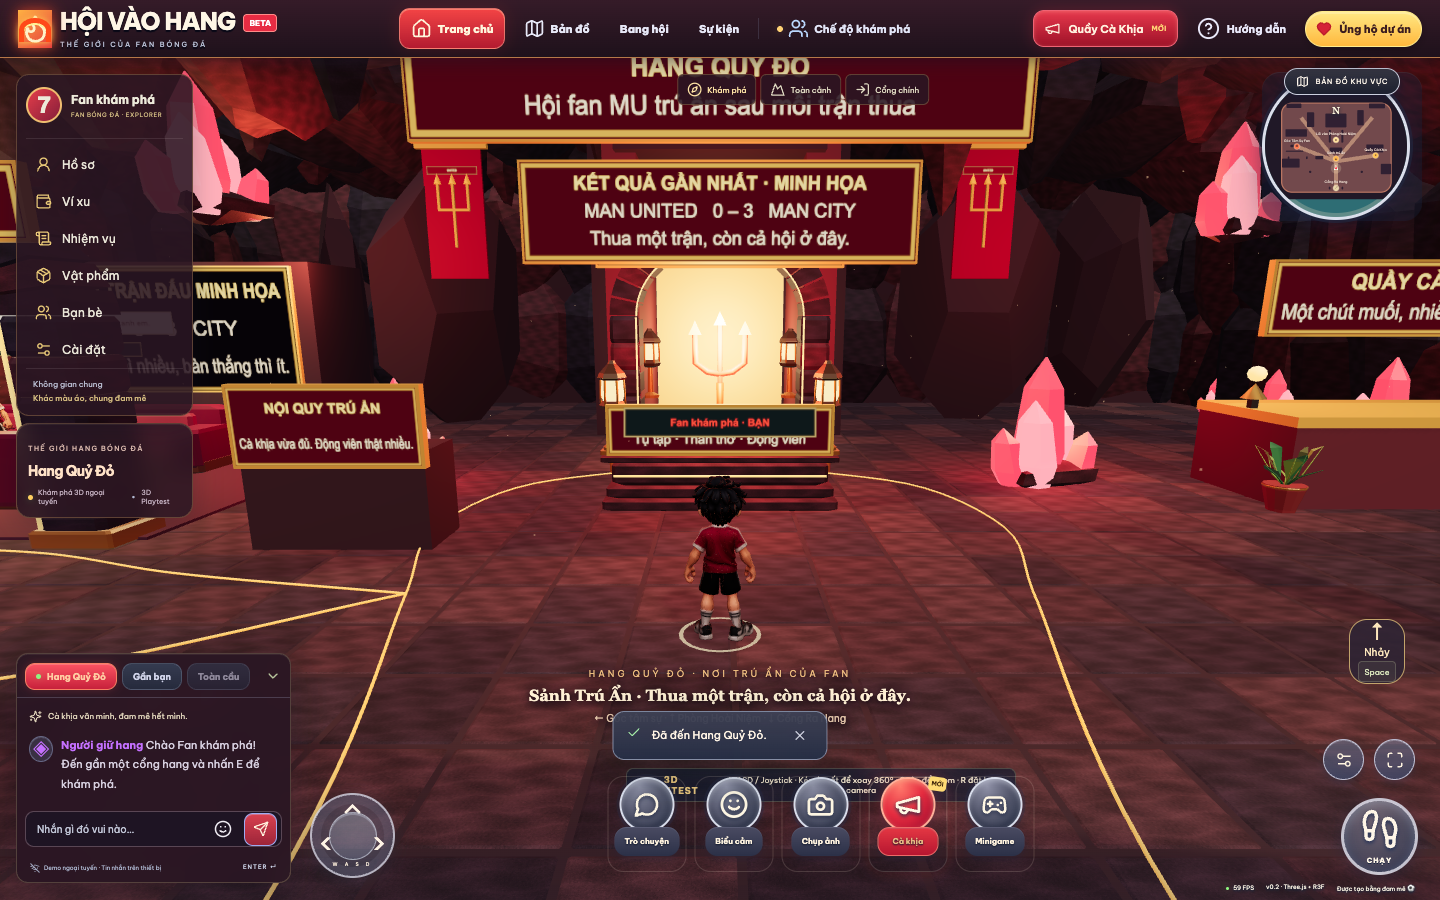
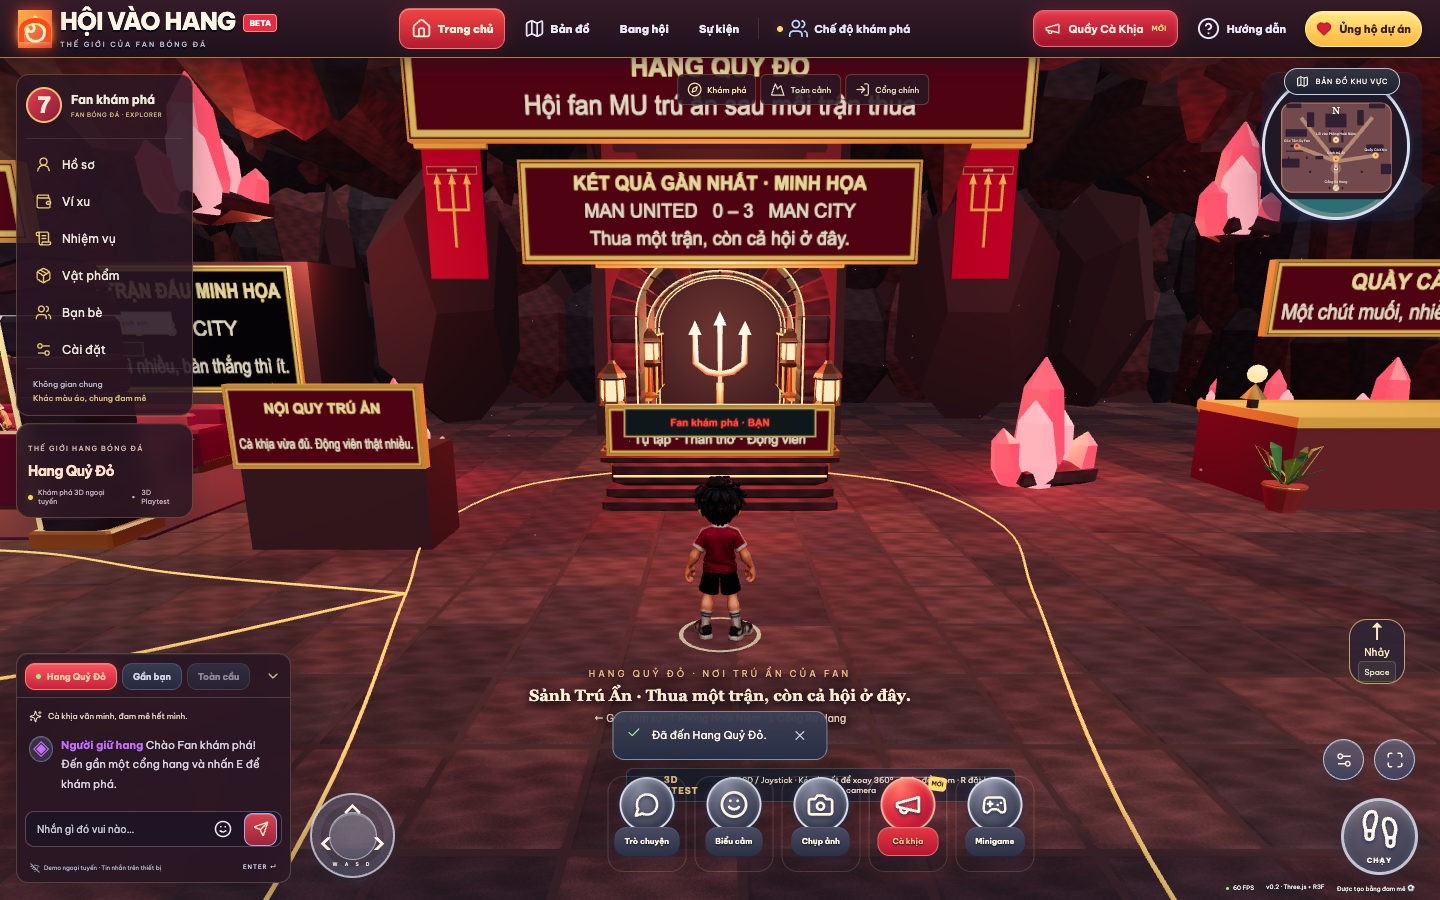
chore: polish Red Devils cave plaques, corridor lighting, and QA screenshots

Changed region(s): [[0.4375, 0.28, 0.5625, 0.4667]]

diff --git a/apps/web/src/game/three/RedDevilsCave.tsx b/apps/web/src/game/three/RedDevilsCave.tsx
@@ -51,7 +51,14 @@ function Sofa({
   depth?: number;
   rotation?: number;
 }) {
-  return <CaveModel asset="sofa" placements={[{ position, yaw: rotation, scale: [width / 4, 1, depth / 1.48] }]} solid shadow />;
+  return (
+    <CaveModel
+      asset="sofa"
+      placements={[{ position, yaw: rotation, scale: [width / 4, 1, depth / 1.48] }]}
+      solid
+      shadow
+    />
+  );
 }
 function SadFan({ position, i }: { position: V3; i: number }) {
   const head = useRef<THREE.Group>(null);
@@ -94,7 +101,12 @@ export function RedDevilsCave({ quality }: { quality: Quality }) {
       />
       <Banner position={[-8.2, 6.7, -16]} />
       <Banner position={[8.2, 6.7, -16]} />
-      <CaveModel asset="plinth" placements={[{ position: [solids[0].x, 0, solids[0].z] }]} solid shadow />
+      <CaveModel
+        asset="plinth"
+        placements={[{ position: [solids[0].x, 0, solids[0].z] }]}
+        solid
+        shadow
+      />
       <Plaque
         lines={['SẢNH TRÚ ẨN', 'Tụ tập · Than thở · Động viên']}
         width={4.1}
@@ -129,11 +141,29 @@ export function RedDevilsCave({ quality }: { quality: Quality }) {
         subtitle="Đi sâu vào hành lang · E để bước vào"
         width={3.75}
       />
-      <mesh position={[mx, 2.7, mz - 0.5]}>
-        <planeGeometry args={[3.7, 5.4]} />
-        <meshStandardMaterial color="#edb568" emissive="#ff9a35" emissiveIntensity={0.45} />
-      </mesh>
-      <pointLight position={[0, 3, -12]} color="#ffd798" intensity={45} distance={8} />
+      <CaveModel
+        asset="arch"
+        placements={[-11.15, -13.45, mz - 1.35].map((z) => ({
+          position: [mx, 0, z],
+          scale: [0.9, 0.91, 0.38],
+        }))}
+      />
+      {[-10.9, -12.9, -14.5].map((z, i) => (
+        <group key={z}>
+          <group position={[-1.8, 2.38, z]} rotation={[0, Math.PI / 2, 0]}>
+            <Plaque
+              lines={[['MUNICH · 1958', 'WEMBLEY · 1968', 'MOSCOW · 2008'][i]]}
+              width={1.25}
+              height={1.48}
+            />
+          </group>
+          <group position={[1.8, 2.38, z]} rotation={[0, -Math.PI / 2, 0]}>
+            <Plaque lines={[['ĐỨNG DẬY', 'VÔ ĐỊCH', 'HOÀI NIỆM'][i]]} width={1.25} height={1.48} />
+          </group>
+        </group>
+      ))}
+      <pointLight position={[0, 3, -12]} color="#ffd798" intensity={36} distance={8} />
+      <pointLight position={[0, 3, -15]} color="#ff854a" intensity={32} distance={7} />
       {/* Lounge: screen, real sofa volumes, a solid coffee table and seated fans. */}
       <group name="fan-lounge">
         <CaveGate
@@ -163,7 +193,12 @@ export function RedDevilsCave({ quality }: { quality: Quality }) {
         <Sofa position={[-15.1, 0, -6.15]} width={6.2} rotation={Math.PI} />
         <CaveModel
           asset="coffee-table"
-          placements={[{ position: [solids[11].x, 0, solids[11].z], scale: [solids[11].w / 1.25, 1, solids[11].d / 1.25] }]}
+          placements={[
+            {
+              position: [solids[11].x, 0, solids[11].z],
+              scale: [solids[11].w / 1.25, 1, solids[11].d / 1.25],
+            },
+          ]}
           solid
           shadow
         />
@@ -178,7 +213,12 @@ export function RedDevilsCave({ quality }: { quality: Quality }) {
         <pointLight position={[-15, 4, -8]} color="#ffc486" intensity={95} distance={14} />
       </group>
       <Sofa position={[solids[5].x, 0, solids[5].z]} width={solids[5].w} depth={solids[5].d} />
-      <Plaque lines={['KHU TRÒ CHUYỆN FAN', 'Lounge · Giao lưu nhẹ']} position={[-16.3, 3.3, -2.3]} width={6.25} height={0.9} />
+      <Plaque
+        lines={['KHU TRÒ CHUYỆN FAN', 'Lounge · Giao lưu nhẹ']}
+        position={[-16.3, 3.3, -2.3]}
+        width={6.25}
+        height={0.9}
+      />
       <SadFan position={[solids[5].x - 0.7, 0.65, solids[5].z + 0.3]} i={2} />
       <Sofa position={[solids[6].x, 0, solids[6].z]} width={solids[6].w} depth={solids[6].d} />
       <SadFan position={[solids[6].x, 0.65, solids[6].z + 0.3]} i={3} />
